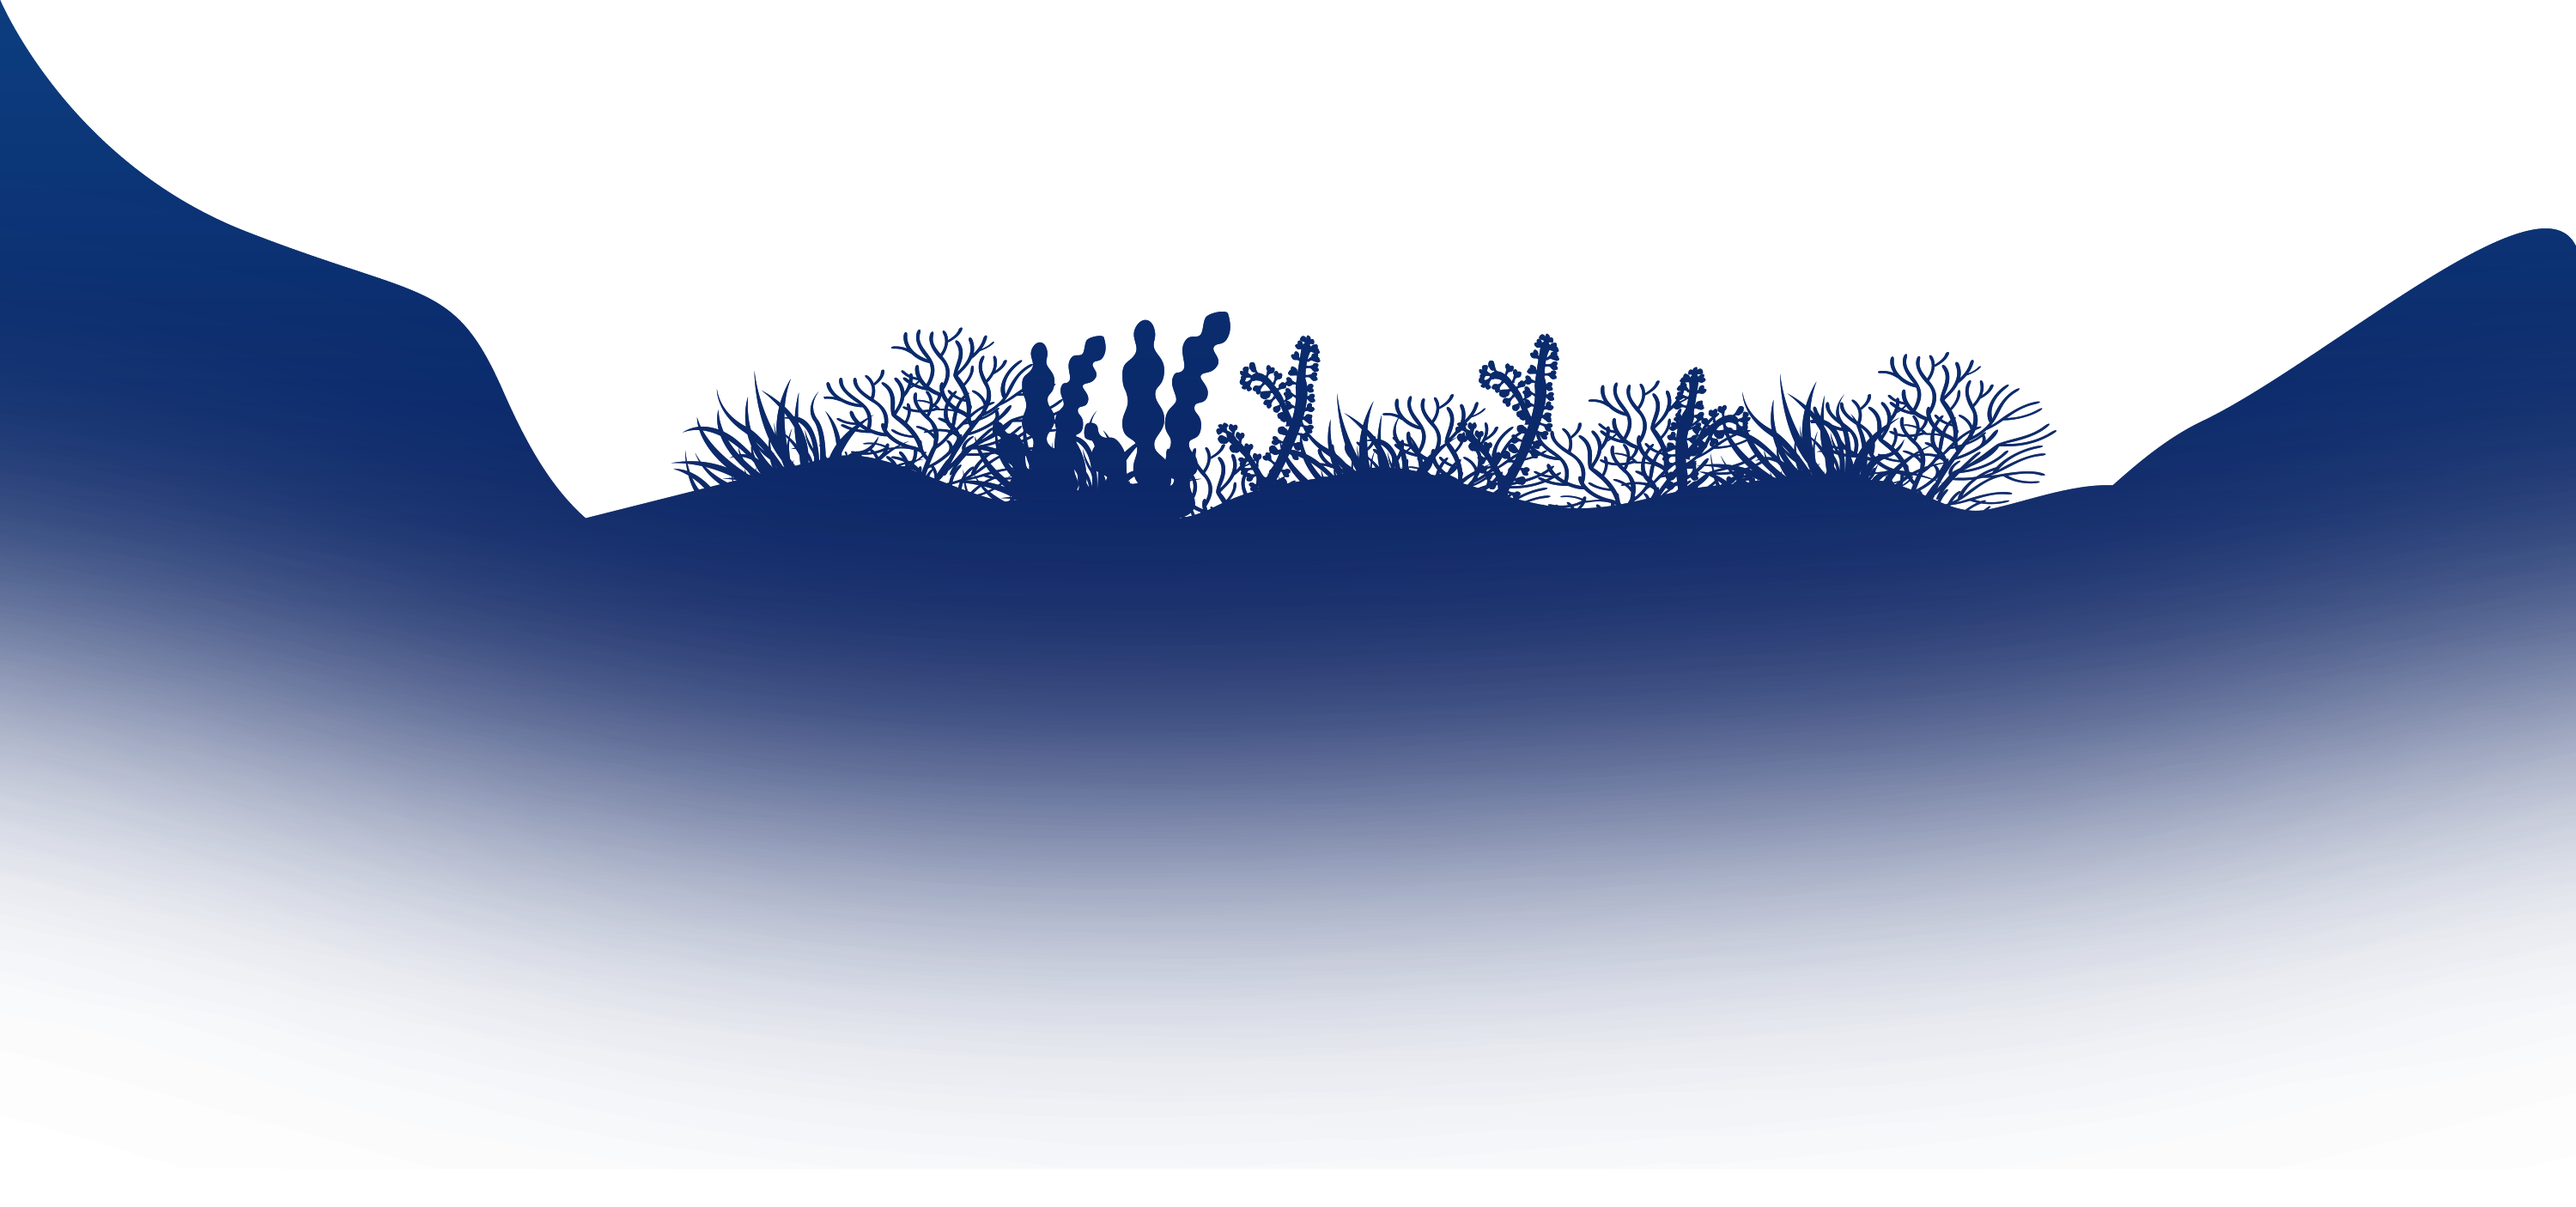
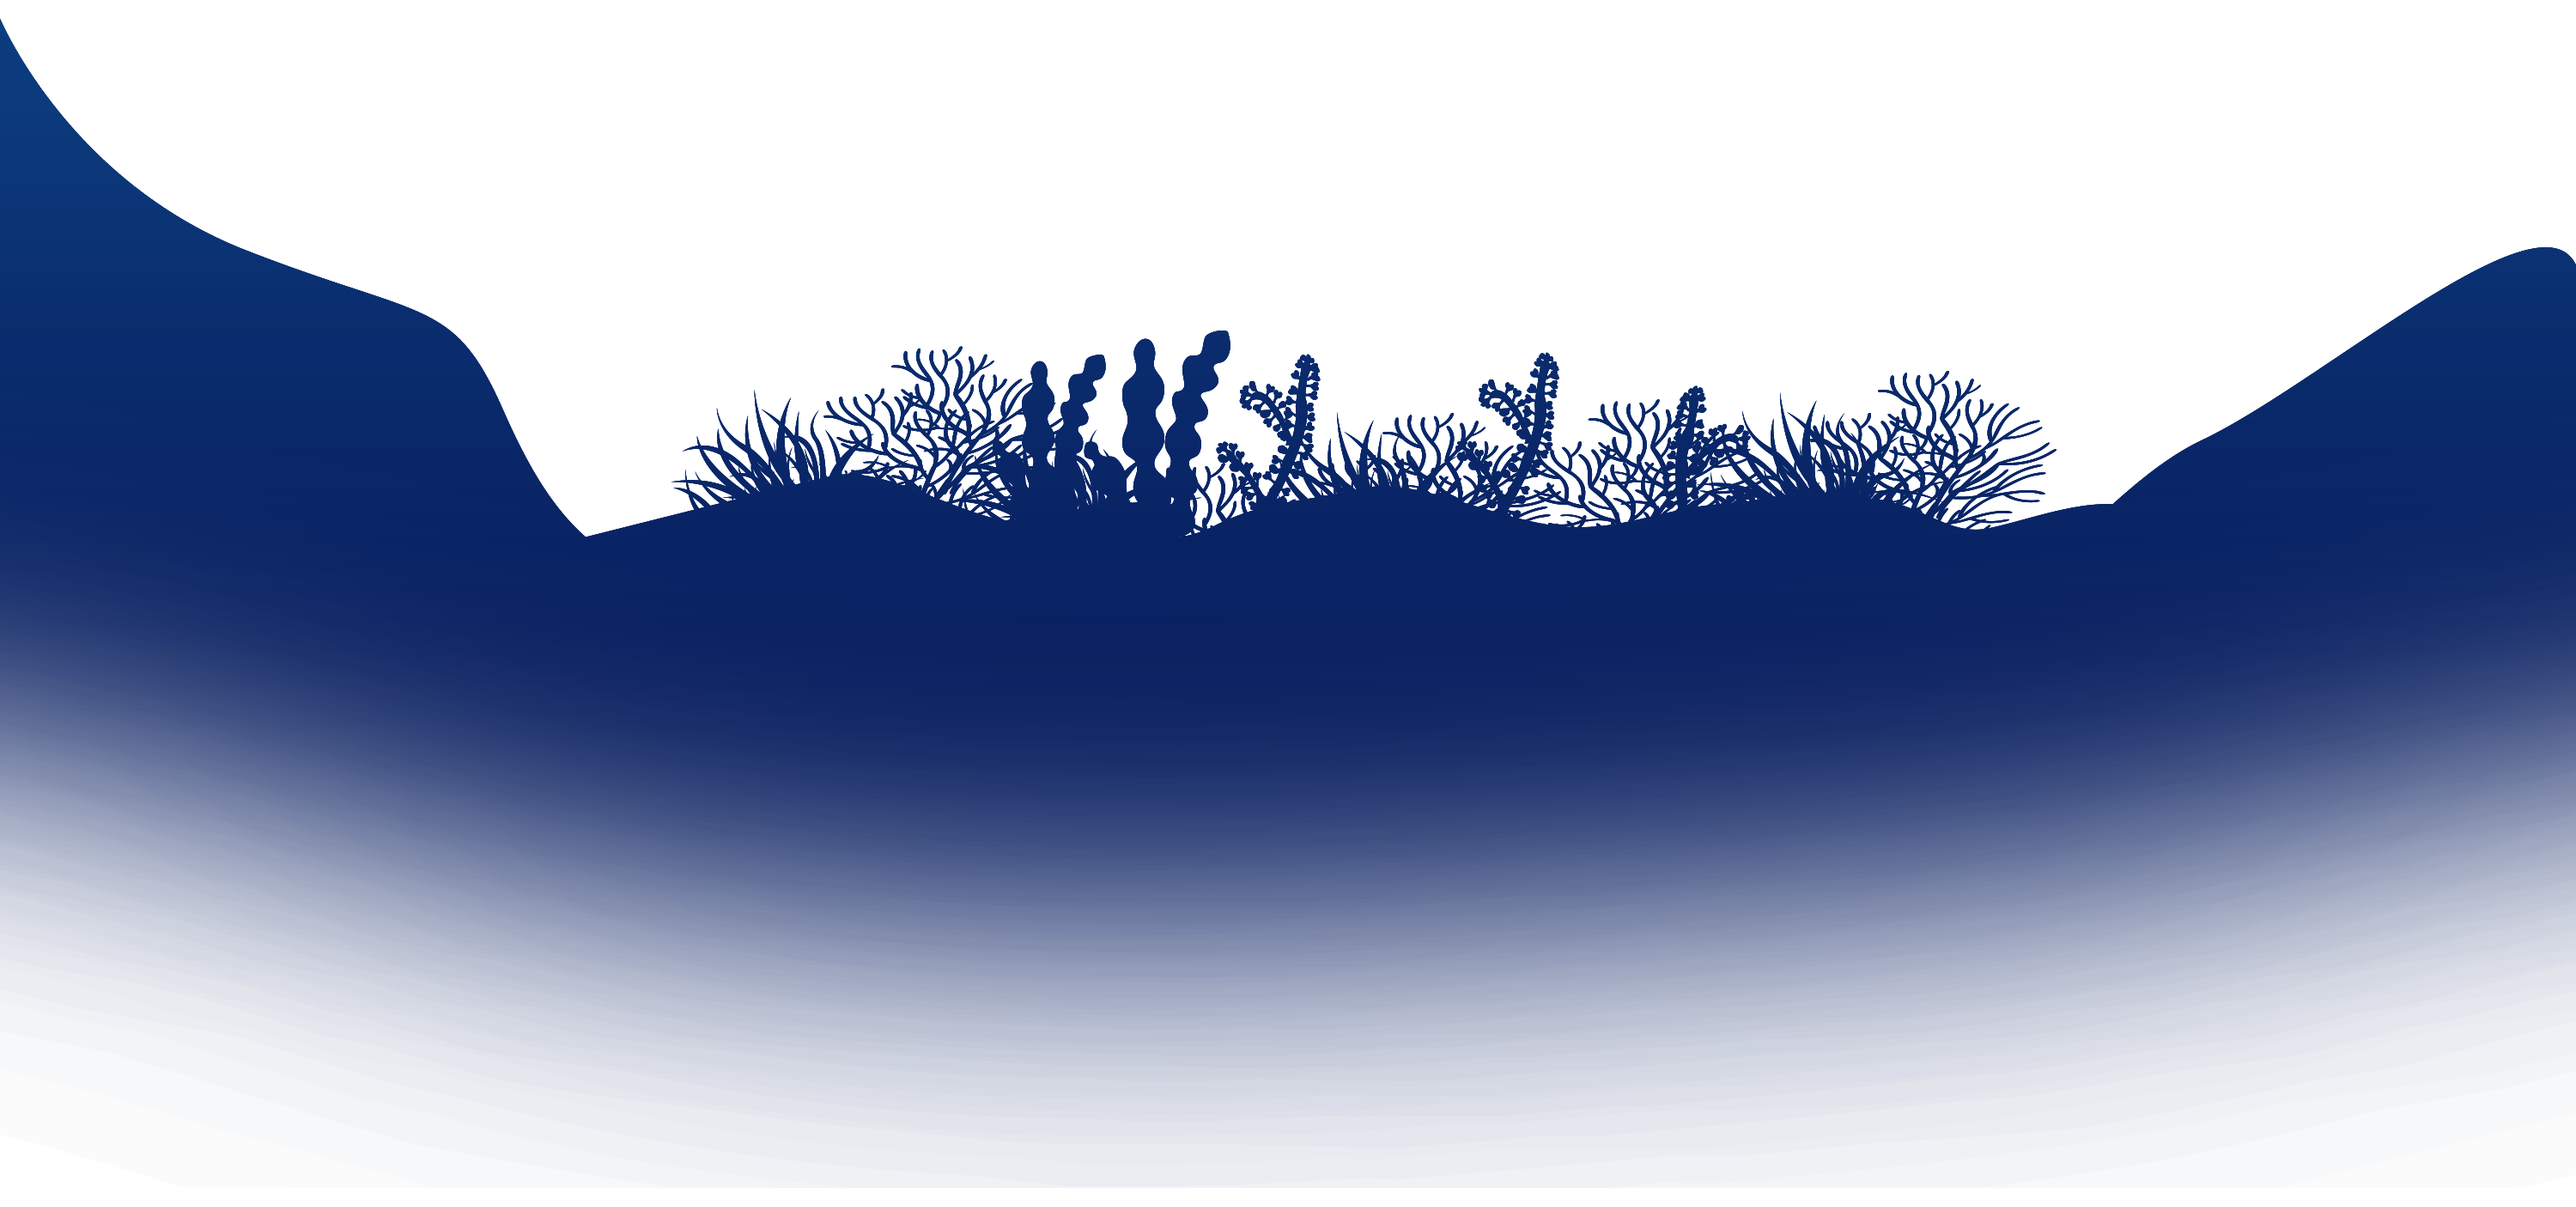
Checking on fonts loading

diff --git a/src/pages/index.jsx b/src/pages/index.jsx
@@ -4,6 +4,7 @@ import styled from 'react-emotion';
 import { Parallax, ParallaxLayer } from 'react-spring';
 import 'typeface-cantata-one';
 import 'typeface-open-sans';
+import 'typeface-oswald';
 
 
 import '../assets/css/krabby.css';
@@ -46,7 +47,7 @@ const Inner = styled.div`
 `;
 
 const BigTitle = styled.h1`
-  ${tw('text-5xl lg:text-6xl font-serif text-white mb-6 tracking-wide')};
+  ${tw('text-5xl lg:text-6xl font-heading text-white mb-6 tracking-wide')};
   text-shadow: 0 5px 35px rgba(255, 255, 255, 0.15);
 `;
 
@@ -134,7 +135,9 @@ const Index = () => (
   <React.Fragment>
     <SEO />
 
-    <Parallax pages={6}>
+    <Parallax pages={5}>
+
+
       <Divider speed={0.2} offset={0}>
         <UpDown>
           <SVG icon="bubble" width={3} left="80%" top="30%" />
@@ -152,7 +155,6 @@ const Index = () => (
           <SVG icon="bubble" width={6} left="79%" top="40%" />
           <SVG icon="bubble" width={4} left="60%" top="60%" />
         </UpDownWide>
-
       </Divider>
       <Content speed={0.4} offset={0}>
         <Hero>
@@ -164,35 +166,12 @@ const Index = () => (
       </Content>
 
 
-
-
-
-
       <DividerMiddle
         speed={-0.2}
-        offset={1.1}
+        offset={1}
         factor={2}
         className={'background-01'}
       />
-
-
-
-
-
-
-      <Content speed={0.4} offset={1.2} factor={2}>
-        <Inner>
-          <Title>Projects</Title>
-
-        </Inner>
-      </Content>
-
-
-
-
-
-
-
       <Divider speed={0.1} offset={1} factor={2}>
         <UpDown>
           <SVG icon="bubble" width={3} left="80%" top="30%" />
@@ -210,31 +189,10 @@ const Index = () => (
           <SVG icon="bubble" width={6} left="79%" top="40%" />
           <SVG icon="bubble" width={4} left="60%" top="60%" />
         </UpDownWide>
-
       </Divider>
 
 
-
-
-
-
-
-
-
-
-
-
-
-      <Divider speed={0.1} offset={3}>
-        <UpDown>
-          <SVG icon="bubble" width={8} stroke={colors.red} left="60%" top="70%" />
-        </UpDown>
-        <UpDownWide>
-          <SVG icon="bubble" width={48} stroke={colors.red} left="20%" top="30%" />
-        </UpDownWide>
-        stuff here
-      </Divider>
-      <Content speed={0.4} offset={3}>
+      <Content speed={0.4} offset={2}>
         <Inner>
           <Title>About</Title>
           <AboutHero>
@@ -249,7 +207,8 @@ const Index = () => (
         </Inner>
       </Content>
 
-      <Content speed={0.4} offset={4}>
+
+      <Content speed={0.4} offset={3}>
         <Inner>
           <Title>Get in touch</Title>
           <ContactText>
@@ -263,7 +222,7 @@ const Index = () => (
           <a href="https://github.com/LeKoArts/gatsby-starter-portfolio-cara">Github Repository</a>.
         </Footer>
       </Content>
-      <Divider speed={0.1} offset={4}>
+      <Divider speed={0.1} offset={3}>
         <UpDown>
           <SVG icon="bubble" width={3} left="80%" top="30%" />
           <SVG icon="bubble" width={4} left="40%" top="40%" />
@@ -281,11 +240,28 @@ const Index = () => (
           <SVG icon="bubble" width={4} left="60%" top="60%" />
         </UpDownWide>
       </Divider>
-      <Divider
-        speed={0.2}
-        offset={5}
-        className={'foreground--coral'}
-      />
+
+
+      <Divider speed={0.2} offset={4} className={'foreground--coral'}>
+        <UpDown>
+          <SVG icon="bubble" width={3} left="80%" top="30%" />
+          <SVG icon="bubble" width={4} left="40%" top="40%" />
+          <SVG icon="bubble" width={6} left="10%" top="10%" />
+          <SVG icon="bubble" width={3} left="50%" top="70%" />
+          <SVG icon="bubble" width={4} left="30%" top="20%" />
+          <SVG icon="bubble" width={3} left="10%" top="80%" />
+        </UpDown>
+        <UpDownWide>
+          <SVG icon="bubble" width={3} left="40%" top="60%" />
+          <SVG icon="bubble" width={6} left="30%" top="70%" />
+          <SVG icon="bubble" width={4} left="20%" top="80%" />
+          <SVG icon="bubble" width={6} left="30%" top="90%" />
+          <SVG icon="bubble" width={6} left="79%" top="40%" />
+          <SVG icon="bubble" width={4} left="60%" top="60%" />
+        </UpDownWide>
+      </Divider>
+
+
     </Parallax>
   </React.Fragment>
 );

diff --git a/config/website.js b/config/website.js
@@ -3,16 +3,16 @@ const tailwind = require('../tailwind');
 module.exports = {
   pathPrefix: '/', // Prefix for all links. If you deploy your site to example.com/portfolio your pathPrefix should be "/portfolio"
 
-  siteTitle: 'Cara - Gatsby Starter Portfolio', // Navigation and Site Title
-  siteTitleAlt: 'Cara', // Alternative Site title for SEO
-  siteUrl: 'https://portfolio-cara.netlify.com', // Domain of your site. No trailing slash!
+  siteTitle: 'Matt Trice Design', // Navigation and Site Title
+  siteTitleAlt: 'Matt Trice Design', // Alternative Site title for SEO
+  siteUrl: 'https://trice.design', // Domain of your site. No trailing slash!
   siteLanguage: 'en', // Language Tag on <html> element
   siteLogo: '/logos/logo-1024.png', // Used for SEO and manifest
-  siteDescription: 'Playful & Colorful One-Page website with Parallax effect',
+  siteDescription: 'Trice Design Atlanta Prototyping UX UI Animation Design Front End',
 
   // siteFBAppID: '123456789', // Facebook App ID - Optional
-  userTwitter: '@cara', // Twitter Username
-  ogSiteName: 'cara', // Facebook Site Name
+  userTwitter: '', // Twitter Username
+  ogSiteName: '', // Facebook Site Name
   ogLanguage: 'en_US', // Facebook Language
 
   // Manifest and Progress color

diff --git a/src/styles/global.jsx b/src/styles/global.jsx
@@ -12,8 +12,7 @@ injectGlobal`
     -ms-overflow-style: scrollbar;
     -webkit-tap-highlight-color: rgba(0, 0, 0, 0);
     background-color: #6cb2eb;
-    background: rgb(0,136,255);
-    background: linear-gradient(180deg, rgba(0,136,255,1) 0%, rgba(0,81,170,1) 100%);
+    background-image: linear-gradient(-180deg, #00111F 0%, #00161E 64%, #00282B 100%);
     -webkit-font-smoothing: antialiased;
     -moz-osx-font-smoothing: grayscale;
   }

diff --git a/src/assets/css/krabby.css b/src/assets/css/krabby.css
@@ -90,7 +90,6 @@ p {
   background: url('../../images/background-01.png');
   background-position: bottom;
   background-repeat: no-repeat;
-  height: 1000px;
   width: 100%;
   opacity: .75;
   background-size: contain !important;

diff --git a/snip.html b/snip.html
@@ -1,0 +1,5 @@
+<Content speed={0.4} offset={2} factor={2}>
+  <Inner>
+    <Title></Title>
+  </Inner>
+</Content>
